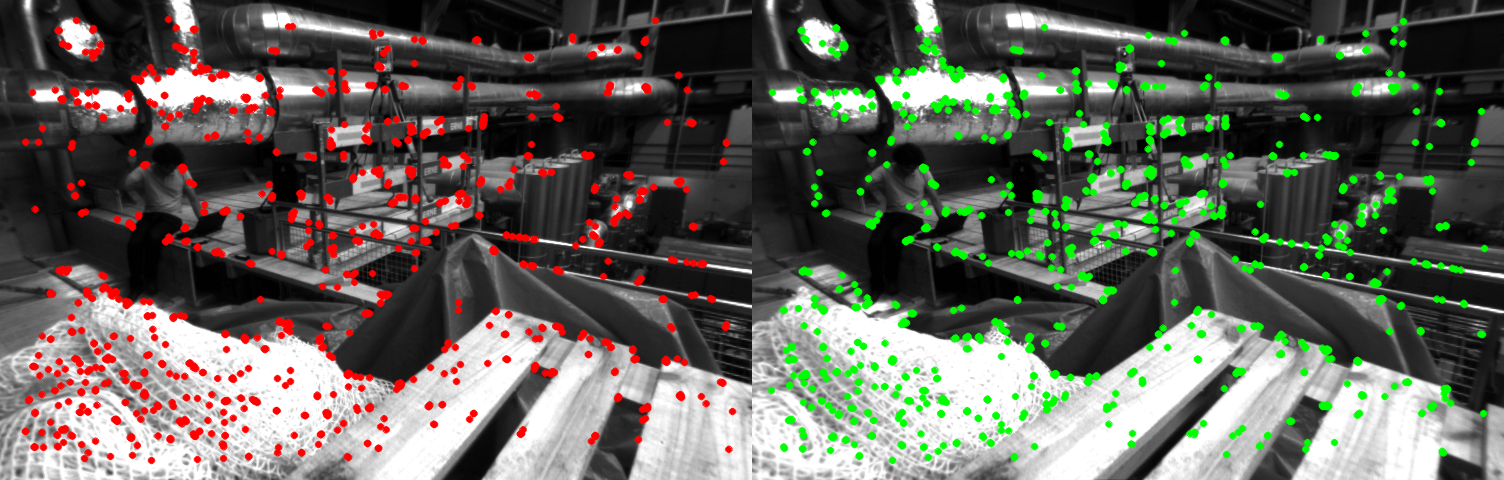
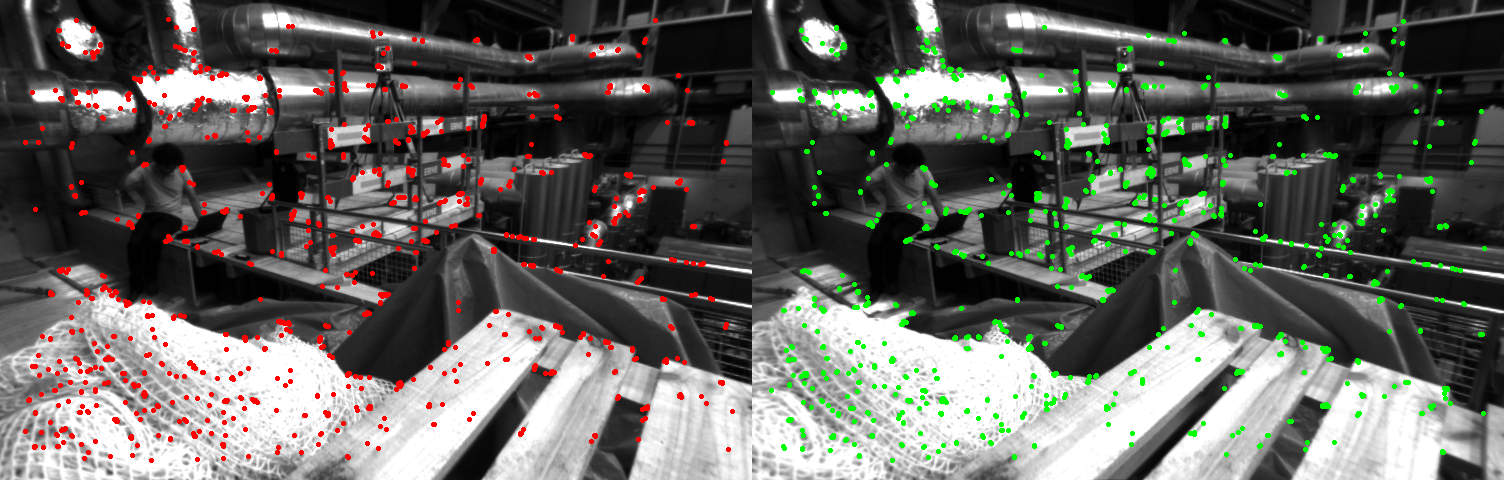
save right keypoint

diff --git a/src/Frame.cc b/src/Frame.cc
@@ -498,50 +498,33 @@ void Frame::ComputeStereoMatches()
     const int Nr = mvKeysRight.size();
 
     static int ir = 0;
-
-    // 遍历
     for(int iR=0; iR<Nr; iR++)
     {
         const cv::KeyPoint &kp = mvKeysRight[iR];
         const float &kpY = kp.pt.y;
         const float r = 2.0f*mvScaleFactors[mvKeysRight[iR].octave];
 
-        cv::Point2f pt1,pt2;
-        pt1.x=kp.pt.x-5;
-        pt1.y=kp.pt.y-5;
-        pt2.x=kp.pt.x+5;
-        pt2.y=kp.pt.y+5;
-        cv::rectangle(m_image_Right_BGR,pt1,pt2,cv::Scalar(255,0,0));
-        cv::circle(m_image_Right_BGR,kp.pt,2,cv::Scalar(255,0,0),-1);
-        std::cout << "iR " << iR << " kp.pt.x " << kp.pt.x << " kp.pt.y " << kp.pt.y << std::endl;
-//        cv::imshow("m_image_Right_BGR", m_image_Right_BGR);
-//        cv::imwrite("/home/q/orb2_xiaoqiuslam/tmp/" + to_string(iR) + ".png",m_image_Right_BGR);
+        cv::circle(m_image_Right_BGR,kp.pt,1,cv::Scalar(255,0,0),2);
+        cv::imshow("m_image_Right_BGR", m_image_Right_BGR);
+        cv::imwrite("/home/q/orb2_xiaoqiuslam/tmp/" + to_string(iR) + ".png",m_image_Right_BGR);
+        cv::waitKey();
 
         const int minr = floor(kpY-r);
         const int maxr = ceil(kpY+r);
 
 
-        pt1.x=kp.pt.x;
-        pt1.y=minr;
-        pt2.x=kp.pt.x;
-        pt2.y=maxr;
-        cv::rectangle(m_image_Right_BGR,pt1,pt2,cv::Scalar(0,0,255));
-
         // x 向右 y向下 原点在左上
         for(int yi=minr;yi<=maxr;yi++){
-
             vRowIndices[yi].push_back(iR);
-
-            std::cout << " yi " << yi << " iR " << iR << std::endl;
-            cv::circle(m_image_Right_BGR,cv::Point2f(kp.pt.x, maxr),1,cv::Scalar(0,0,255),-1);
-            std::cout << " kp.pt.x " << kp.pt.x << " maxr " << maxr << std::endl;
-//            cv::imshow("m_image_Right_BGR", m_image_Right_BGR);
-//            cv::imwrite("/home/q/orb2_xiaoqiuslam/tmp/" + to_string(iR) + "_" + to_string(yi) + ".png",m_image_Right_BGR);
+            cv::circle(m_image_Right_BGR,cv::Point2f(kp.pt.x, maxr),1,cv::Scalar(0,0,255),2);
+            cv::imshow("m_image_Right_BGR", m_image_Right_BGR);
+            cv::imwrite("/home/q/orb2_xiaoqiuslam/tmp/" + to_string(iR) + "_" + to_string(yi) + ".png",m_image_Right_BGR);
+            cv::waitKey();
         }
         ir = iR;
     }
 
-//    cv::imwrite("/home/q/orb2_xiaoqiuslam/tmp/" + to_string(ir) + ".png",m_image_Right_BGR);
+    cv::imwrite("/home/q/orb2_xiaoqiuslam/tmp/" + to_string(ir) + ".png",m_image_Right_BGR);
 
     // Set limits for search
     const float minZ = mb;
@@ -767,20 +750,16 @@ cv::Mat Frame::draw_key_point(const cv::Mat &imLeft, const cv::Mat &imRight, vec
     cv::Mat imLeftBGR;
     imLeftBGR = imLeft.clone();
     cv::cvtColor(imLeft, imLeftBGR, cv::COLOR_GRAY2BGR);
-    cv::drawKeypoints(imLeftBGR, mvKeys, imLeftBGR, cv::Scalar(0, 0, 255));
 
     cv::Mat imRightBGR;
     imRightBGR = imRight.clone();
     cv::cvtColor(imRight, imRightBGR, cv::COLOR_GRAY2BGR);
-    cv::drawKeypoints(imRightBGR, mvKeysRight, imRightBGR, cv::Scalar(0, 255, 0));
-
 
     const int height = max(imLeftBGR.rows, imRightBGR.rows);
     const int width = imLeftBGR.cols + imRightBGR.cols;
     cv::Mat output(height, width, CV_8UC3, cv::Scalar(0, 0, 0));
     imLeftBGR.copyTo(output(cv::Rect(0, 0, imLeftBGR.cols, imLeftBGR.rows)));
     imRightBGR.copyTo(output(cv::Rect(imLeftBGR.cols, 0, imRightBGR.cols, imRightBGR.rows)));
-
 
     for (size_t i = 0; i < mvKeys.size(); i++)
     {
@@ -793,6 +772,37 @@ cv::Mat Frame::draw_key_point(const cv::Mat &imLeft, const cv::Mat &imRight, vec
         cv::Point2f right = (mvKeysRight[i].pt + cv::Point2f((float)imLeftBGR.cols, 0.f));
         circle(output, right, 1, cv::Scalar(0, 255, 0), 2);
     }
+
+    cv::imwrite("/home/q/orb2_xiaoqiuslam/tmp/output.png", output);
+
+    return output;
+}
+
+
+
+cv::Mat Frame::draw_key_point(const cv::Mat &imLeft, const cv::Mat &imRight, cv::KeyPoint &kp1, cv::KeyPoint &kp2) {
+
+    cv::Mat imLeftBGR;
+    imLeftBGR = imLeft.clone();
+    cv::cvtColor(imLeft, imLeftBGR, cv::COLOR_GRAY2BGR);
+
+    cv::Mat imRightBGR;
+    imRightBGR = imRight.clone();
+    cv::cvtColor(imRight, imRightBGR, cv::COLOR_GRAY2BGR);
+
+
+    const int height = max(imLeftBGR.rows, imRightBGR.rows);
+    const int width = imLeftBGR.cols + imRightBGR.cols;
+    cv::Mat output(height, width, CV_8UC3, cv::Scalar(0, 0, 0));
+    imLeftBGR.copyTo(output(cv::Rect(0, 0, imLeftBGR.cols, imLeftBGR.rows)));
+    imRightBGR.copyTo(output(cv::Rect(imLeftBGR.cols, 0, imRightBGR.cols, imRightBGR.rows)));
+
+
+    cv::Point2f left = kp1.pt;
+    circle(output, left, 1, cv::Scalar(0, 0, 255), 2);
+
+    cv::Point2f right = (kp2.pt + cv::Point2f((float)imLeftBGR.cols, 0.f));
+    circle(output, right, 1, cv::Scalar(0, 255, 0), 2);
 
     cv::imwrite("/home/q/orb2_xiaoqiuslam/tmp/output.png", output);
 

diff --git a/include/Frame.h b/include/Frame.h
@@ -100,6 +100,8 @@ public:
 
     cv::Mat draw_key_point(const cv::Mat &src1, const cv::Mat &src2, vector<cv::KeyPoint> &kpt1, vector<cv::KeyPoint> &kpt2);
 
+    cv::Mat draw_key_point(const cv::Mat &src1, const cv::Mat &src2, cv::KeyPoint &kpt1, cv::KeyPoint &kpt2);
+
 
 public:
 
